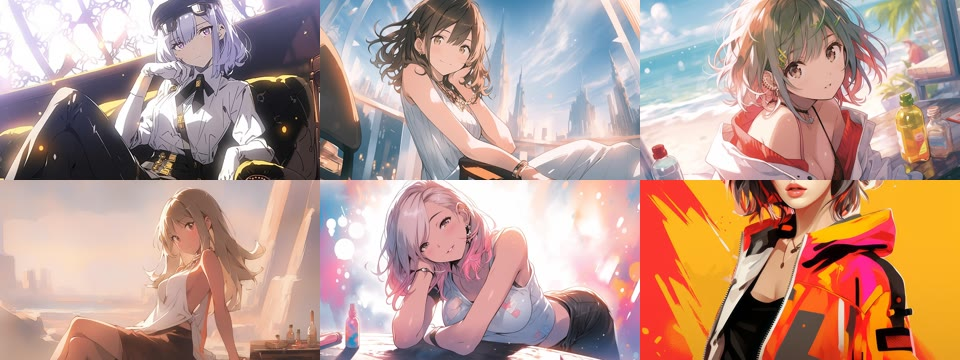
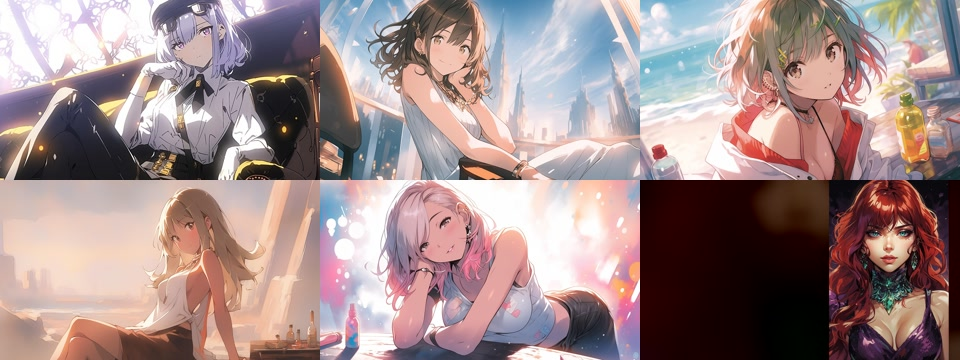
feat(看板娘): 更新魅惑御姐图库素材
- 替换为更成熟妩媚的成年红发动漫形象
- 统一处理为 2048x1152 横图并同步图库预览
- 更新素材来源记录并升级发布版本至 0.1.8

Changed region(s): [[0.6562, 0.4889, 1.0, 1.0]]

diff --git a/src/assets/mascot/pixabay-anime/README.md b/src/assets/mascot/pixabay-anime/README.md
@@ -1,6 +1,6 @@
 # Pixabay 美女动漫看板娘
 
-下载日期：2026-08-31
+下载及更新日期：2026-09-01
 
 本目录包含六张从 Pixabay 筛选的成年动漫女性插画，统一处理为 `2048x1152` JPEG。
 素材页面在下载时均标记为可依据 Pixabay Content License 免费使用。
@@ -12,6 +12,6 @@
 | `beach-anime.jpg` | https://pixabay.com/illustrations/cartoon-anime-drawing-beach-sand-8459942/ |
 | `midnight-pose.jpg` | https://pixabay.com/illustrations/anime-art-cartoon-a-woman-8459913/ |
 | `silver-pose.jpg` | https://pixabay.com/illustrations/cartoon-anime-drawing-pose-8459921/ |
-| `glamour-manga.jpg` | https://pixabay.com/illustrations/ai-generated-woman-glamour-manga-8343676/ |
+| `glamour-manga.jpg` | https://pixabay.com/illustrations/ai-generated-woman-red-hair-dress-8321687/ |
 
 许可证：https://pixabay.com/service/license-summary/
